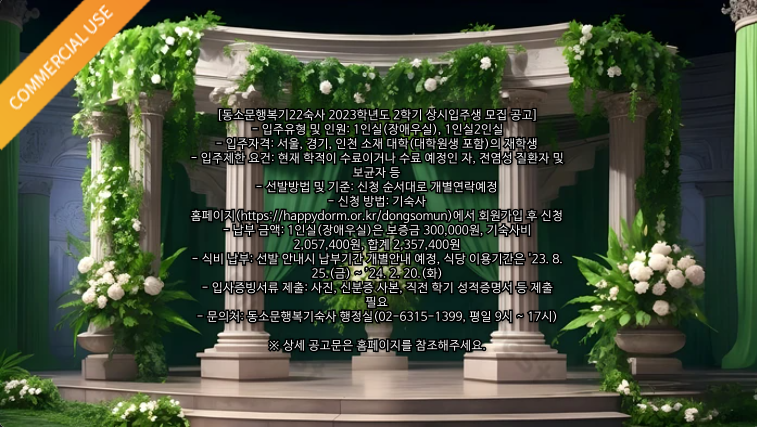
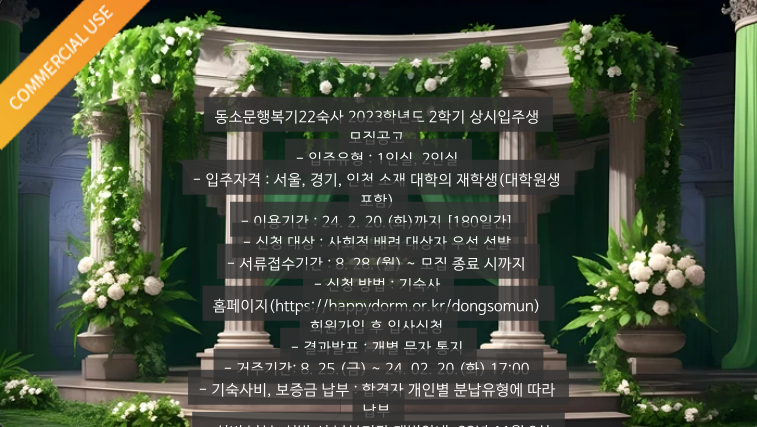
generateImageWithText 함수 수정(텍스트 배경 박스 색깔 변경)

Changed region(s): [[0.2431, 0.2131, 0.7596, 1.0]]

diff --git a/app.js b/app.js
@@ -78,30 +78,17 @@ const generateImageWithText = async (
 
     ctx.drawImage(image, 0, 0, image.width, image.height);
 
-    const fontSize = 12;
+    const fontSize = 15;
+    const padding = 10; // 텍스트와 배경 박스 간격
     ctx.font = `${fontSize}px "${fontName}"`;
     ctx.textAlign = "center";
     ctx.textBaseline = "top";
 
-    // 가독성을 위한 그림자 및 윤곽선 설정
-    ctx.lineWidth = 3;
-    ctx.strokeStyle = "black";
-    ctx.shadowColor = "rgba(0, 0, 0, 0.3)";
-    ctx.shadowBlur = 4;
-    ctx.shadowOffsetX = 2;
-    ctx.shadowOffsetY = 2;
-
     const maxWidth = canvas.width * 0.5;
-    const lineHeight = fontSize * 1.4; // 조금 넓은 라인 간격 설정
+    const lineHeight = fontSize * 1.4; // 줄 간격 조정
     const textX = canvas.width / 2;
     const startY = canvas.height / 4;
 
-    // 텍스트 배경 박스 색상 및 크기 설정
-    const padding = 10;
-    const backgroundAlpha = 0.6; // 반투명도 설정
-    const backgroundColor = `rgba(0, 0, 0, ${backgroundAlpha})`;
-
-    // 텍스트 줄 바꿈 및 배경 박스 추가 함수
     const wrapTextWithBackground = (ctx, text, x, y, maxWidth, lineHeight) => {
       const lines = text.split("\n");
       let yPos = y;
@@ -109,20 +96,24 @@ const generateImageWithText = async (
       for (let i = 0; i < lines.length; i++) {
         const words = lines[i].split(" ");
         let line = "";
+        
         for (let n = 0; n < words.length; n++) {
           const testLine = line + words[n] + " ";
           const testWidth = ctx.measureText(testLine).width;
+
           if (testWidth > maxWidth && line !== "") {
             const textWidth = ctx.measureText(line).width;
-            const textHeight = fontSize;
-            
-            // 배경 박스 그리기
-            ctx.fillStyle = backgroundColor;
-            ctx.fillRect(x - textWidth / 2 - padding, yPos - padding, textWidth + padding * 2, textHeight + padding * 2);
-            
-            // 텍스트 그리기
+            const boxX = x - textWidth / 2 - padding;
+            const boxY = yPos - padding;
+            const boxWidth = textWidth + padding * 2;
+            const boxHeight = fontSize + padding * 2;
+
+            // 배경 박스 색상 설정 (회색)
+            ctx.fillStyle = "rgba(50, 50, 50, 0.8)";
+            ctx.fillRect(boxX, boxY, boxWidth, boxHeight);
+
+            // 텍스트 그리기 (흰색)
             ctx.fillStyle = "white";
-            ctx.strokeText(line, x, yPos);
             ctx.fillText(line, x, yPos);
             line = words[n] + " ";
             yPos += lineHeight;
@@ -130,15 +121,19 @@ const generateImageWithText = async (
             line = testLine;
           }
         }
+
         const textWidth = ctx.measureText(line).width;
-        const textHeight = fontSize;
+        const boxX = x - textWidth / 2 - padding;
+        const boxY = yPos - padding;
+        const boxWidth = textWidth + padding * 2;
+        const boxHeight = fontSize + padding * 2;
 
-        // 마지막 줄 배경 박스 및 텍스트 그리기
-        ctx.fillStyle = backgroundColor;
-        ctx.fillRect(x - textWidth / 2 - padding, yPos - padding, textWidth + padding * 2, textHeight + padding * 2);
+        // 배경 박스 색상 설정 (회색)
+        ctx.fillStyle = "rgba(50, 50, 50, 0.8)";
+        ctx.fillRect(boxX, boxY, boxWidth, boxHeight);
 
+        // 텍스트 그리기 (흰색)
         ctx.fillStyle = "white";
-        ctx.strokeText(line, x, yPos);
         ctx.fillText(line, x, yPos);
         yPos += lineHeight;
       }
